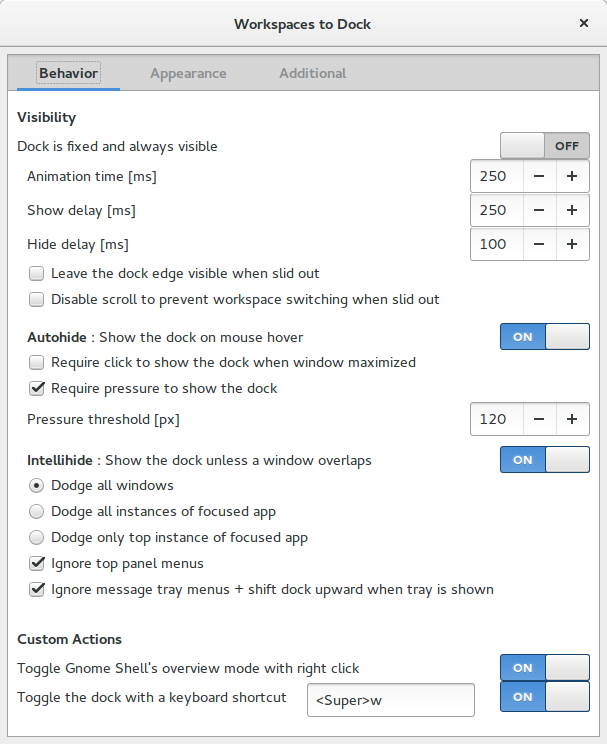
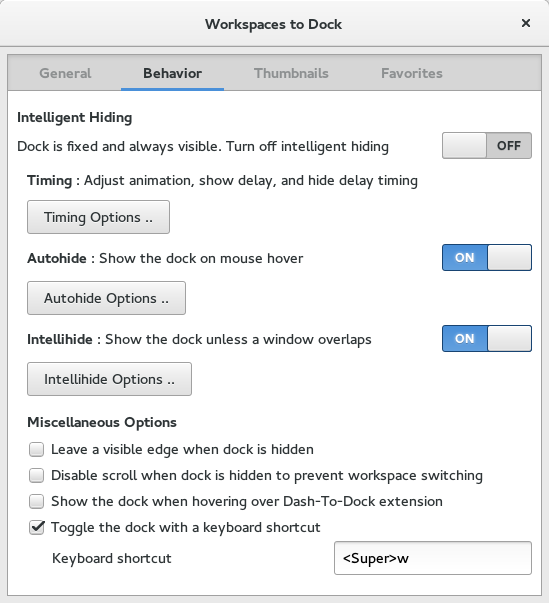
Update readme and screenshots

Changed region(s): [[0.0, 0.0299, 1.0, 1.0]]

diff --git a/README.md b/README.md
@@ -24,56 +24,10 @@ If you're checking out code from the master branch (downloaded as zip or tar.gz)
 The extension can be configured using `gnome-shell-extension-prefs`. No shell restarts are required.
 
 
-Behavior Settings:
-------------------
+General Settings:
+-----------------
 
-![screenshot](https://github.com/passingthru67/workspaces-to-dock/raw/master/Prefs-Behavior.png)
-
-- **Visibility:**
-
-    **Dock is fixed and always visible** - The dock remains visible at all times.
-
-    **Animation time** - The time it takes the dock to slide from hidden to visible state and vise versa.
-
-    **Show delay** - The time delayed before sliding the dock to the visible state. Adjusting this delay higher (500ms-700ms) can help prevent accidentally triggering the dock when using vertical scroll bars on maximized windows.
-
-    **Hide delay** - The time delayed before sliding the dock to the hidden state.
-
-    **Leave the dock edge visible when slid out** - Option to leave the dock edge visible when in the slid out or hidden state. This option makes the dock more easily accessible in dual monitor configurations where the second monitor is to the right.
-
-    **Disable scroll to prevent workspace switching when slid out** - Option to disable mouse scrolling to prevent accidentally switching workspaces when the dock is hidden.
-
-    **Autohide : Show the dock on mouse hover** - When enabled, the dock shows when the mouse touches the right edge of screen. When disabled, the dock remains hidden unless the intellihide option is on or overview mode is entered.
-
-    **Require pressure to show the dock** - Require mouse pressure against the edge of the screen to show the dock. This option helps eliminate accidentally triggering the dock when using vertical scroll bars. It also helps with accessing the dock in multi-monitor configurations where the 2nd monitor is to the right of the dock. Unfortunately, this feature requires Gnome Shell 3.8+ and an XServer installation that implements pressure barriers.
-
-    NOTE: In multi-monitor configurations where the 2nd monitor is to the right of the workspaces dock, the dock will have to be showing before the pressure barrier is removed and the mouse pointer released to access the 2nd monitor. This will create a slight hesitation as the mouse must wait for the dock to show. To elliminate this issue, you may show the dock using the keyboard shortcut Super + w, or by entering Gnome Shell's overview mode prior to attempting to access the 2nd monitor.
-
-    **Pressure threshold** - The amount of pressure required to activate and show the dock. This setting works in conjunction with 'Require pressure to show dock' above and requires Gnome Shell 3.8+ and an XServer installation that implements pressure barriers.
-
-    **Intellihide : Show the dock unless a window overlaps** - When enabled, the dock remains visible but hides itself when a window touches it. When disabled, dock remains hidden unless the autohide option is on or overview mode is entered.
-
-    **Dodge all windows** - Intellihide option to dodge all windows.
-
-    **Dodge all instances of focused app** - If multiple instances of the focused application are opened, all windows of that app are dodged.
-
-    **Dodge only top instance of focused app** - If multiple instances of the focused application are opened, only the top instance window is dodged.
-
-    **Toggle the dock with a keyboard shortcut** - When enabled, using the keyboard shortcut will toggle the workspaces dock. The default shortcut key is Super + w.
-
-
-Appearance Settings:
---------------------
-
-![screenshot](https://github.com/passingthru67/workspaces-to-dock/raw/master/Prefs-Appearance.png)
-
-- **Background:**
-
-    **Customize the dock background opacity** - Allows setting a different transparency value for the dock.
-
-    **Opacity** - Percentage of transparency desired.
-
-    **Only when the dock is shown by autohide** - Only customize the opacity when the dock is shown by the mouse touching the right edge of the screen. In such cases, the dock is usually shown over other windows so that less transparency is desired.
+![screenshot](https://github.com/passingthru67/workspaces-to-dock/raw/master/Prefs-General.png)
 
 - **Position:**
 
@@ -87,21 +41,84 @@ Appearance Settings:
 
     **Bottom margin** - Allows setting a bottom margin for the extended dock. The range allowed is 0% to 25% of the screen height.
 
-- **Thumbnails:**
+- **Thumbnail Size:**
 
     **Customize the workspace thumbnail size** - Option to customize the maximum thumbnail size.
 
     **Thumbnail size** - The custom value for the maximum thumbnail size. The range allowed is 10% to 25% of the screen size.
 
+- **Background:**
 
-Additional Settings:
+    **Customize the dock background opacity** - Allows setting a different transparency value for the dock.
+
+    **Opacity** - Percentage of transparency desired.
+
+    **Only when the dock is shown by autohide** - Only customize the opacity when the dock is shown by the mouse touching the right edge of the screen. In such cases, the dock is usually shown over other windows so that less transparency is desired.
+
+
+Behavior Settings:
+------------------
+
+![screenshot](https://github.com/passingthru67/workspaces-to-dock/raw/master/Prefs-Behavior.png)
+
+- **Intelligent Hiding:**
+
+    **Dock is fixed and always visible. Turn off intelligent hiding** - The dock remains visible at all times.
+
+    **Timing Options**
+
+    **Animation time** - The time it takes the dock to slide from hidden to visible state and vise versa.
+
+    **Show delay** - The time delayed before sliding the dock to the visible state. Adjusting this delay higher (500ms-700ms) can help prevent accidentally triggering the dock when using vertical scroll bars on maximized windows.
+
+    **Hide delay** - The time delayed before sliding the dock to the hidden state.
+
+    **Autohide Options**
+
+    **Autohide : Show the dock on mouse hover** - When enabled, the dock shows when the mouse touches the right edge of screen. When disabled, the dock remains hidden unless the intellihide option is on or overview mode is entered.
+
+    **Require pressure to show the dock** - Require mouse pressure against the edge of the screen to show the dock. This option helps eliminate accidentally triggering the dock when using vertical scroll bars. It also helps with accessing the dock in multi-monitor configurations where the 2nd monitor is to the right of the dock. Unfortunately, this feature requires Gnome Shell 3.8+ and an XServer installation that implements pressure barriers.
+
+    NOTE: In multi-monitor configurations where the 2nd monitor is to the right of the workspaces dock, the dock will have to be showing before the pressure barrier is removed and the mouse pointer released to access the 2nd monitor. This will create a slight hesitation as the mouse must wait for the dock to show. To elliminate this issue, you may show the dock using the keyboard shortcut Super + w, or by entering Gnome Shell's overview mode prior to attempting to access the 2nd monitor.
+
+    **Pressure threshold** - The amount of pressure required to activate and show the dock. This setting works in conjunction with 'Require pressure to show dock' above and requires Gnome Shell 3.8+ and an XServer installation that implements pressure barriers.
+
+    **Intellihide Options**
+
+    **Intellihide : Show the dock unless a window overlaps** - When enabled, the dock remains visible but hides itself when a window touches it. When disabled, dock remains hidden unless the autohide option is on or overview mode is entered.
+
+    **Dodge all windows** - Intellihide option to dodge all windows.
+
+    **Dodge all instances of focused app** - If multiple instances of the focused application are opened, all windows of that app are dodged.
+
+    **Dodge only top instance of focused app** - If multiple instances of the focused application are opened, only the top instance window is dodged.
+
+    **Miscellaneous Options**
+
+    **Leave a visible edge when the dock id hidden** - Option to leave the dock edge visible when in the slid out or hidden state. This option makes the dock more easily accessible in dual monitor configurations where the second monitor is to the right.
+
+    **Disable scroll when the dock is hidden to prevent workspace switching** - Option to disable mouse scrolling to prevent accidentally switching workspaces when the dock is hidden.
+
+    **Show the dock when hovering over Dash-To-Dock extension** - When enabled, hovering the mouse over the Dash-To-Dock extension will cause the workspaces dock to show. This feature is extremely useful in cases where your workspaces dock is hidden and you want to open a new app from the dash. Rather than going into overview just to see your workspaces, hover over the dash-to-dock extension. The workspaces dock will show to the right. Use the dash-to-dock scroll to go to the appropriate workspace.
+
+    **Toggle the dock with a keyboard shortcut** - When enabled, using the keyboard shortcut will toggle the workspaces dock. The default shortcut key is Super + w.
+
+
+Thumbnails Settings:
 --------------------
 
-![screenshot](https://github.com/passingthru67/workspaces-to-dock/raw/master/Prefs-Additional.png)
+![screenshot](https://github.com/passingthru67/workspaces-to-dock/raw/master/Prefs-Thumbnails.png)
 
-- **Workspace Captions:**
+- **Thumbnail Captions:**
 
     **Add captions to workspace thumbnails** - Adds captions to the workspace thumbnails. Right clicking on the workspace caption displays a popup menu with options to close applications or show the extension preferences dialog. (See image below)
+
+    **Caption height** - Sets the height of the caption area.
+
+    **Taskbar icon size** - Sets the size of the tasbar icons.
+
+    **Caption popup menu icon size** - Sets the size of the application icon in the caption popup menu.
+
 
 ![screenshot](https://github.com/passingthru67/workspaces-to-dock/raw/master/Popup.png)
 
@@ -120,18 +137,44 @@ Additional Settings:
 Below are examples of the workspace (thumbnail) caption in various configurations
 ![screenshot](https://github.com/passingthru67/workspaces-to-dock/raw/master/Thumbnails.png)
 
-- **Custom Actions:**
+- **Miscellaneous Options:**
 
     **Toggle Gnome Shell's overview mode with right click** - When enabled, right clicking on the dock will toggle the overview mode.
 
-- **Dash Integration:**
-
-    **Show the dock when hovering over Dash-To-Dock extension** - When enabled, hovering the mouse over the Dash-To-Dock extension will cause the workspaces dock to show. This feature is extremely useful in cases where your workspaces dock is hidden and you want to open a new app from the dash. Rather than going into overview just to see your workspaces, hover over the dash-to-dock extension. The workspaces dock will show to the right. Use the dash-to-dock scroll to go to the appropriate workspace.
 
 
 Workspace Caption Theming:
 -------------------------
 Adding workspaces-to-dock caption support to a theme can be accomplished by placing a custom 'workspaces-to-dock.css' stylesheet in the theme's gnome-shell/extensions/ folder. There is no need to use the @import directive to incorporate the stylesheet classes into your theme's gnome-shell.css. The extension will automatically detect the stylesheet file. Please see the workspaces-to-dock.css stylesheet for a description of the css classes.
+
+
+
+Favorites Settings:
+-------------------
+
+![screenshot](https://github.com/passingthru67/workspaces-to-dock/raw/master/Prefs-Favorites.png)
+
+- **Favorite Shortcuts Panel:**
+
+    **Show a favorite shortcuts panel** - Adds a panel of favorites applications.
+
+    **Shortcuts panel orientation in reference to the thumbnails** - Places the favorite shortcuts panel on the inside or outside of the thumbnails.
+
+    **Shortcuts panel icon size** - Sets the size of the favorite shortcuts panel application icons.
+
+    **Miscellaneous Options**
+
+    **Show running applications** - Shows running applications on the favorite shortcuts panel.
+
+    **Show places** - Shows places on the favorite shortcuts panel.
+
+    **Show application window count indicators** - Shows the number of running instances of an application next to the application icon.
+
+    **Show applications button at the bottom** - Shows the applications button (grid) at the bottom of the favorite shortcuts panel.
+
+    **Show the popup menu context arrow at the top** - Shows the popup menu context arrow at the top of the context menu. The default position is in the middle.
+
+    **Hide thumbnails when a popup menu is shown** - Hides the thumbnails when a popup context menu is show by right clicking an favorite application icon. This only applies when the shortcuts panel is oriented on the outside of the thumbnails.
 
 
 Localization Support:
@@ -181,6 +224,12 @@ If the problem persists, please report it by opening an issue on github or with 
 
 Change Log:
 -----------
+**version 30 for Gnome 3.16 (Sept 15, 2015)**
+- Bug fixes (particularly fixed-dock border issue)
+- Added support for left/right placement of dock
+- Added option for inside/outside orientation of favorite shortcuts panel
+- Updated preferences dialog
+
 **version 29 for Gnome 3.16 (May 5, 2015)**
 - Bug fixes
 
